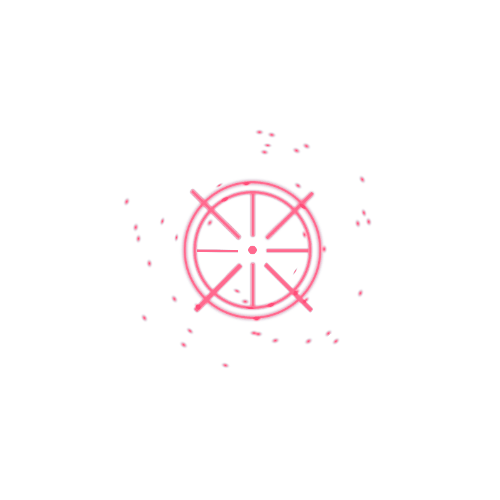
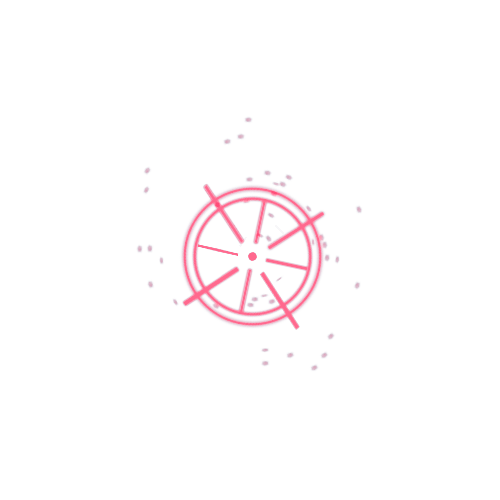
敵人攻擊、攻其不備更新(未完成)、特效修正

diff --git a/bin/js/bundle.js b/bin/js/bundle.js
@@ -226,30 +226,9 @@
                 this.m_healthBar.value = this.m_health / this.m_maxHealth;
             }), 10);
         }
-        bloodSplitEffect(enemy) {
-            let bloodEffect = new Laya.Animation();
-            bloodEffect.scaleX = 2;
-            bloodEffect.scaleY = 2;
-            let colorMat = [
-                2, 0, 0, 0, -100,
-                0, 1, 0, 0, -100,
-                0, 0, 1, 0, -100,
-                0, 0, 0, 1, 0,
-            ];
-            let glowFilter = new Laya.GlowFilter("#ff0028", 10, 0, 0);
-            let colorFilter = new Laya.ColorFilter(colorMat);
-            bloodEffect.filters = [glowFilter, colorFilter];
-            bloodEffect.pos(enemy.x - 500, enemy.y - 500 + 30);
-            bloodEffect.source = "comp/NewBlood.atlas";
-            bloodEffect.on(Laya.Event.COMPLETE, this, function () {
-                bloodEffect.destroy();
-                bloodEffect.destroyed = true;
-            });
-            Laya.stage.addChild(bloodEffect);
-            bloodEffect.play();
-        }
         slashLightEffect(enemy) {
             let slashLightEffect = new Laya.Animation();
+            let randomRotaion = [0, 45, 90];
             let rotation;
             slashLightEffect.scaleX = 1;
             slashLightEffect.scaleY = 1;
@@ -262,9 +241,10 @@
             let glowFilter = new Laya.GlowFilter("#ff0028", 10, 0, 0);
             let colorFilter = new Laya.ColorFilter(colorMat);
             slashLightEffect.filters = [glowFilter, colorFilter];
-            rotation = Math.floor(Math.random() * 90);
+            rotation = randomRotaion[Math.floor(Math.random() * 3)];
+            let checkRotation = rotation > 45;
             slashLightEffect.rotation = rotation;
-            slashLightEffect.pos(this.m_isFacingRight ? enemy.x + 6 * rotation - 220 : enemy.x + 6 * rotation - 320, enemy.y - 2 * rotation - 250 + 30);
+            slashLightEffect.pos(this.m_isFacingRight ? enemy.x + 6 * rotation - 220 : enemy.x + 6 * rotation - 320, checkRotation ? enemy.y + 0.1 * rotation - 250 + 30 : enemy.y - 2.2 * rotation - 250 + 30);
             slashLightEffect.source = "comp/SlashLight.atlas";
             slashLightEffect.alpha = 0.8;
             slashLightEffect.on(Laya.Event.COMPLETE, this, function () {
@@ -346,13 +326,15 @@
             atkBoxCollider.isSensor = true;
             atkCircleRigid.gravityScale = 0;
             this.updateAnimation(EnemyStatus.idle, EnemyStatus.attack);
-            Laya.stage.addChild(atkCircle);
-            atkBoxCollider.tag = this.m_atkTag;
-            this.m_atkTimer = 100;
+            setTimeout(() => {
+                Laya.stage.addChild(atkCircle);
+                atkBoxCollider.tag = this.m_atkTag;
+                this.m_atkTimer = 100;
+            }, 500);
             setTimeout(() => {
                 atkCircle.destroy();
                 atkCircle.destroyed = true;
-            }, 100);
+            }, 600);
             setTimeout(() => {
                 this.m_atkCd = true;
             }, 1000);
@@ -1090,7 +1072,7 @@
             this.m_cost = 10;
             this.m_id = 2;
             this.m_cd = 3;
-            this.m_preTime = 1.0;
+            this.m_preTime = 0.56;
         }
         cast(owner, position) {
             if (!this.m_canUse)
@@ -1101,26 +1083,27 @@
             this.m_animation = new Laya.Animation();
             this.m_animation.width = owner.m_animation.width;
             this.m_animation.height = owner.m_animation.height;
-            this.m_animation.scaleX = 1;
-            this.m_animation.scaleY = 1;
-            this.m_animation.pos(rightSide ? position['x'] - 240 : position['x'] - 240, position['y'] - 250);
+            this.m_animation.scaleX = 1.5;
+            this.m_animation.scaleY = 1.5;
+            this.m_animation.pos(rightSide ? position['x'] - 380 : position['x'] - 380, position['y'] - 400);
             let offsetX = rightSide ? position['x'] : position['x'] - this.m_animation.width;
             let offsetY = position['y'] - this.m_animation.height / 2 + 20;
-            this.m_animation.source = "comp/Target.atlas";
+            this.m_animation.source = "comp/Target/Target_0000.png,comp/Target/Target_0001.png,comp/Target/Target_0002.png,comp/Target/Target_0003.png,comp/Target/Target_0004.png,comp/Target/Target_0005.png,comp/Target/Target_0006.png,comp/Target/Target_0007.png,comp/Target/Target_0008.png,comp/Target/Target_0009.png,comp/Target/Target_0010.png,comp/Target/Target_0011.png,comp/Target/Target_0012.png,comp/Target/Target_0013.png,comp/Target/Target_0014.png,comp/Target/Target_0015.png,comp/Target/Target_0016.png";
             this.m_animation.autoPlay = true;
-            this.m_animation.interval = 25;
+            this.m_animation.interval = 30;
+            this.m_animation.zOrder = 10;
             this.m_canUse = false;
             this.castRoar(position);
             owner.delayMove(this.m_preTime);
             owner.m_rigidbody.linearVelocity = { x: 0.0, y: 0.0 };
             owner.updateAnimation(owner.m_state, CharacterStatus.attackOne, null, false, 125);
             let colorMat = [
-                3, 0, 2, 0, -300,
-                0, 3, 0, 0, -100,
-                3, 0, 3, 0, -300,
+                3, 2, 2, 0, -250,
+                1, 6, 1, 0, -250,
+                2, 1, 4, 0, -250,
                 0, 0, 0, 2, 0,
             ];
-            let glowFilter = new Laya.GlowFilter("#8400ff", 50, 0, 0);
+            let glowFilter = new Laya.GlowFilter("#0065ff", 8, 0, 0);
             let colorFilter = new Laya.ColorFilter(colorMat);
             this.m_animation.filters = [glowFilter, colorFilter];
             this.m_animation.on(Laya.Event.COMPLETE, this, function () {
@@ -1136,6 +1119,7 @@
                     "y0": offsetY,
                     "y1": offsetY + this.m_animation.height,
                 });
+                CharacterInit.playerEnt.m_state = CharacterStatus.attackTwo;
             }, this.m_preTime * 1000);
             setTimeout(() => {
                 this.m_canUse = true;
@@ -1290,6 +1274,7 @@
                 if (count >= this.m_lastTime * 1000) {
                     Laya.stage.addChild(explosion);
                     explosion.play();
+                    owner.setCameraShake(100, 12);
                     setTimeout(() => {
                         explosion.destroy();
                     }, 300);
@@ -1583,7 +1568,6 @@
                     return;
                 if (this.m_atkTimer)
                     clearInterval(this.m_atkTimer);
-                this.createAttackEffect(this.m_animation);
                 this.attackStepEventCheck();
                 if (!this.m_animationChanging) {
                     if (this.m_atkStep === 1) {
@@ -1820,11 +1804,13 @@
                     this.m_animationChanging = true;
                     this.m_animation.source = 'character/Attack1.atlas';
                     this.m_animation.play();
+                    this.createAttackEffect(this.m_animation);
                     break;
                 case CharacterStatus.attackTwo:
                     this.m_animationChanging = true;
                     this.m_animation.source = 'character/Attack2.atlas';
                     this.m_animation.play();
+                    this.createAttackEffect(this.m_animation);
                     break;
                 case CharacterStatus.idle:
                     this.m_animation.source = 'character/Idle.atlas';
@@ -1900,12 +1886,12 @@
             let colorNum = 2;
             let oathColorMat = [
                 Math.floor(Math.random() * 2) + 2, 0, 0, 0, -100,
-                0, Math.floor(Math.random() * 2) + 1, 0, 0, -100,
-                0, 0, Math.floor(Math.random() * 2) + 2, 0, -100,
+                1, Math.floor(Math.random() * 2) + 1, 0, 0, -100,
+                1, 0, Math.floor(Math.random() * 2) + 2, 0, -100,
                 0, 0, 0, 1, 0,
             ];
             let colorFilter = new Laya.ColorFilter(oathColorMat);
-            let glowFilter_charge = new Laya.GlowFilter("#df6ef4", 40, 0, 0);
+            let glowFilter_charge = new Laya.GlowFilter("#df6ef4", 10, 0, 0);
             CharacterInit.playerEnt.m_animation.filters = (CharacterInit.playerEnt.m_bloodyPoint >= CharacterInit.playerEnt.m_maxBloodyPoint_soft) ? [glowFilter_charge, colorFilter] : [];
             OathManager.characterLogo.filters = (CharacterInit.playerEnt.m_bloodyPoint >= CharacterInit.playerEnt.m_maxBloodyPoint_soft) ? [glowFilter_charge, colorFilter] : [];
             OathManager.oathUpdate();
@@ -2200,7 +2186,7 @@
     GameConfig.screenMode = "none";
     GameConfig.alignV = "middle";
     GameConfig.alignH = "center";
-    GameConfig.startScene = "First.scene";
+    GameConfig.startScene = "Village.scene";
     GameConfig.sceneRoot = "";
     GameConfig.debug = false;
     GameConfig.stat = true;

diff --git a/src/script/EnemyHandler.ts b/src/script/EnemyHandler.ts
@@ -242,32 +242,33 @@ export abstract class VirtualEnemy extends Laya.Script {
             this.m_healthBar.value = this.m_health / this.m_maxHealth;
         }), 10);
     }
-    private bloodSplitEffect(enemy: Laya.Sprite) {
-        let bloodEffect: Laya.Animation = new Laya.Animation();
-        bloodEffect.scaleX = 2;
-        bloodEffect.scaleY = 2;
-        let colorMat: Array<number> =
-            [
-                2, 0, 0, 0, -100, //R
-                0, 1, 0, 0, -100, //G
-                0, 0, 1, 0, -100, //B
-                0, 0, 0, 1, 0, //A
-            ];
-        let glowFilter: Laya.GlowFilter = new Laya.GlowFilter("#ff0028", 10, 0, 0);
-        let colorFilter: Laya.ColorFilter = new Laya.ColorFilter(colorMat);
+    // private bloodSplitEffect(enemy: Laya.Sprite) {
+    //     let bloodEffect: Laya.Animation = new Laya.Animation();
+    //     bloodEffect.scaleX = 2;
+    //     bloodEffect.scaleY = 2;
+    //     let colorMat: Array<number> =
+    //         [
+    //             2, 0, 0, 0, -100, //R
+    //             0, 1, 0, 0, -100, //G
+    //             0, 0, 1, 0, -100, //B
+    //             0, 0, 0, 1, 0, //A
+    //         ];
+    //     let glowFilter: Laya.GlowFilter = new Laya.GlowFilter("#ff0028", 10, 0, 0);
+    //     let colorFilter: Laya.ColorFilter = new Laya.ColorFilter(colorMat);
 
-        bloodEffect.filters = [glowFilter, colorFilter];
-        bloodEffect.pos(enemy.x - 500, enemy.y - 500 + 30);
-        bloodEffect.source = "comp/NewBlood.atlas";
-        bloodEffect.on(Laya.Event.COMPLETE, this, function () {
-            bloodEffect.destroy();
-            bloodEffect.destroyed = true;
-        });
-        Laya.stage.addChild(bloodEffect);
-        bloodEffect.play();
-    }
+    //     bloodEffect.filters = [glowFilter, colorFilter];
+    //     bloodEffect.pos(enemy.x - 500, enemy.y - 500 + 30);
+    //     bloodEffect.source = "comp/NewBlood.atlas";
+    //     bloodEffect.on(Laya.Event.COMPLETE, this, function () {
+    //         bloodEffect.destroy();
+    //         bloodEffect.destroyed = true;
+    //     });
+    //     Laya.stage.addChild(bloodEffect);
+    //     bloodEffect.play();
+    // }
     slashLightEffect(enemy: Laya.Sprite) {
         let slashLightEffect: Laya.Animation = new Laya.Animation();
+        let randomRotaion : number[] = [0,45,90];
         let rotation : number;
         slashLightEffect.scaleX = 1;
         slashLightEffect.scaleY = 1;
@@ -281,9 +282,10 @@ export abstract class VirtualEnemy extends Laya.Script {
         let glowFilter: Laya.GlowFilter = new Laya.GlowFilter("#ff0028", 10, 0, 0);
         let colorFilter: Laya.ColorFilter = new Laya.ColorFilter(colorMat);
         slashLightEffect.filters = [glowFilter, colorFilter];
-        rotation = Math.floor(Math.random() * 90);
+        rotation = randomRotaion[Math.floor(Math.random() * 3)];
+        let checkRotation : boolean = rotation > 45;
         slashLightEffect.rotation = rotation;
-        slashLightEffect.pos(this.m_isFacingRight ? enemy.x + 6 * rotation - 220 : enemy.x + 6 * rotation - 320, enemy.y - 2 * rotation - 250 + 30);//y軸需再修正
+        slashLightEffect.pos(this.m_isFacingRight ? enemy.x + 6 * rotation - 220 : enemy.x + 6 * rotation - 320,checkRotation ? enemy.y + 0.1 * rotation - 250 + 30 : enemy.y - 2.2 * rotation - 250 + 30);//y軸需再修正
         slashLightEffect.source = "comp/SlashLight.atlas";
         slashLightEffect.alpha = 0.8;
         slashLightEffect.on(Laya.Event.COMPLETE, this, function () {
@@ -379,13 +381,18 @@ export abstract class VirtualEnemy extends Laya.Script {
         atkBoxCollider.isSensor = true;
         atkCircleRigid.gravityScale = 0;
         this.updateAnimation(EnemyStatus.idle, EnemyStatus.attack);
-        Laya.stage.addChild(atkCircle);
-         atkBoxCollider.tag = this.m_atkTag;
-        this.m_atkTimer = 100;
+        // Laya.stage.addChild(atkCircle);
+        // atkBoxCollider.tag = this.m_atkTag;
+        // this.m_atkTimer = 100;
+        setTimeout(() => {
+            Laya.stage.addChild(atkCircle);
+            atkBoxCollider.tag = this.m_atkTag;
+            this.m_atkTimer = 100;
+        }, 500);
         setTimeout(() => {
             atkCircle.destroy();
             atkCircle.destroyed = true;
-        }, 100);
+        }, 600);
         setTimeout(() => {
             this.m_atkCd = true;
         }, 1000);

diff --git a/src/script/SkillHuman.ts b/src/script/SkillHuman.ts
@@ -1,3 +1,4 @@
+import CharacterInit from "./CharacterInit";
 import { CharacterStatus } from "./CharacterStatus";
 import EnemyHandler from "./EnemyHandler";
 import OathManager from "./OathManager";
@@ -98,7 +99,7 @@ export class Behead extends VirtualSkill {
     m_cd = 3;
 
     /** 技能的準備時間 */
-    m_preTime: number = 1.0;
+    m_preTime: number = 0.56;
 
     cast(owner: any, position: object): void {
         if (!this.m_canUse) return;
@@ -108,16 +109,17 @@ export class Behead extends VirtualSkill {
         this.m_animation = new Laya.Animation()
         this.m_animation.width = owner.m_animation.width;
         this.m_animation.height = owner.m_animation.height;
-        this.m_animation.scaleX = 1;
-        this.m_animation.scaleY = 1;
-        this.m_animation.pos(rightSide ? position['x'] - 240 : position['x']-240, position['y'] - 250);
+        this.m_animation.scaleX = 1.5;
+        this.m_animation.scaleY = 1.5;
+        this.m_animation.pos(rightSide ? position['x'] - 380 : position['x'] - 380, position['y'] - 400);
 
         let offsetX: number = rightSide ? position['x'] : position['x'] - this.m_animation.width;
         let offsetY: number = position['y'] - this.m_animation.height / 2 + 20;
 
-        this.m_animation.source = "comp/Target.atlas";
+        this.m_animation.source = "comp/Target/Target_0000.png,comp/Target/Target_0001.png,comp/Target/Target_0002.png,comp/Target/Target_0003.png,comp/Target/Target_0004.png,comp/Target/Target_0005.png,comp/Target/Target_0006.png,comp/Target/Target_0007.png,comp/Target/Target_0008.png,comp/Target/Target_0009.png,comp/Target/Target_0010.png,comp/Target/Target_0011.png,comp/Target/Target_0012.png,comp/Target/Target_0013.png,comp/Target/Target_0014.png,comp/Target/Target_0015.png,comp/Target/Target_0016.png";
         this.m_animation.autoPlay = true;
-        this.m_animation.interval = 25;
+        this.m_animation.interval = 30;
+        this.m_animation.zOrder = 10;
 
         this.m_canUse = false;
         this.castRoar(position);
@@ -129,12 +131,12 @@ export class Behead extends VirtualSkill {
         // owner.
         let colorMat: Array<number> =
         [
-            3, 0, 2, 0, -300, //R
-            0, 3, 0, 0, -100, //G
-            3, 0, 3, 0, -300, //B
+            3, 2, 2, 0, -250, //R
+            1, 6, 1, 0, -250, //G
+            2, 1, 4, 0, -250, //B
             0, 0, 0, 2, 0, //A
         ];
-    let glowFilter: Laya.GlowFilter = new Laya.GlowFilter("#8400ff", 50, 0, 0);
+    let glowFilter: Laya.GlowFilter = new Laya.GlowFilter("#0065ff", 8, 0, 0);
     let colorFilter: Laya.ColorFilter = new Laya.ColorFilter(colorMat);
     this.m_animation.filters = [glowFilter, colorFilter];
         this.m_animation.on(Laya.Event.COMPLETE, this, function () {
@@ -156,6 +158,7 @@ export class Behead extends VirtualSkill {
                     "y1": offsetY + this.m_animation.height,
                 });
             //this.m_animation.play();
+             CharacterInit.playerEnt.m_state = CharacterStatus.attackTwo;
         }, this.m_preTime * 1000);
         setTimeout(() => {
             this.m_canUse = true;

diff --git a/src/script/CharacterInit.ts b/src/script/CharacterInit.ts
@@ -385,7 +385,7 @@ export class Character extends Laya.Script {
             //     }, 100)
             // }
             if(this.m_atkTimer) clearInterval(this.m_atkTimer);
-            this.createAttackEffect(this.m_animation);
+            // this.createAttackEffect(this.m_animation);
             this.attackStepEventCheck();
 
             if (!this.m_animationChanging){
@@ -726,11 +726,13 @@ export class Character extends Laya.Script {
                 this.m_animationChanging = true;
                 this.m_animation.source = 'character/Attack1.atlas';
                 this.m_animation.play();
+                this.createAttackEffect(this.m_animation);
                 break;
             case CharacterStatus.attackTwo:
                 this.m_animationChanging = true;
                 this.m_animation.source = 'character/Attack2.atlas';
                 this.m_animation.play();
+                this.createAttackEffect(this.m_animation);
                 break;
             case CharacterStatus.idle:
                 this.m_animation.source = 'character/Idle.atlas';
@@ -827,12 +829,12 @@ export default class CharacterInit extends Laya.Script {
         let oathColorMat: Array<number> =
             [
                 Math.floor(Math.random() * 2) + 2, 0, 0, 0, -100, //R
-                0, Math.floor(Math.random() * 2) + 1, 0, 0, -100, //G
-                0, 0, Math.floor(Math.random() * 2) + 2, 0, -100, //B
+                1, Math.floor(Math.random() * 2) + 1, 0, 0, -100, //G
+                1, 0, Math.floor(Math.random() * 2) + 2, 0, -100, //B
                 0, 0, 0, 1, 0, //A
             ];
         let colorFilter: Laya.ColorFilter = new Laya.ColorFilter(oathColorMat);
-        let glowFilter_charge: Laya.GlowFilter = new Laya.GlowFilter("#df6ef4", 40, 0, 0);
+        let glowFilter_charge: Laya.GlowFilter = new Laya.GlowFilter("#df6ef4", 10, 0, 0);
         CharacterInit.playerEnt.m_animation.filters = (CharacterInit.playerEnt.m_bloodyPoint >= CharacterInit.playerEnt.m_maxBloodyPoint_soft) ? [glowFilter_charge, colorFilter] : [];
         OathManager.characterLogo.filters = (CharacterInit.playerEnt.m_bloodyPoint >= CharacterInit.playerEnt.m_maxBloodyPoint_soft) ? [glowFilter_charge, colorFilter] : [];
 

diff --git a/src/script/SkillCat.ts b/src/script/SkillCat.ts
@@ -161,6 +161,7 @@ export class BlackHole extends VirtualSkill {
             if (count >= this.m_lastTime * 1000) {
                 Laya.stage.addChild(explosion);
                 explosion.play();
+                owner.setCameraShake(100,12);
                 setTimeout(() => {
                     explosion.destroy();
                 }, 300);

diff --git a/src/GameConfig.ts b/src/GameConfig.ts
@@ -13,7 +13,7 @@ export default class GameConfig{
     static screenMode:string="none";
     static alignV:string="middle";
     static alignH:string="center";
-    static startScene:any="First.scene";
+    static startScene:any="Village.scene";
     static sceneRoot:string="";
     static debug:boolean=false;
     static stat:boolean=true;
